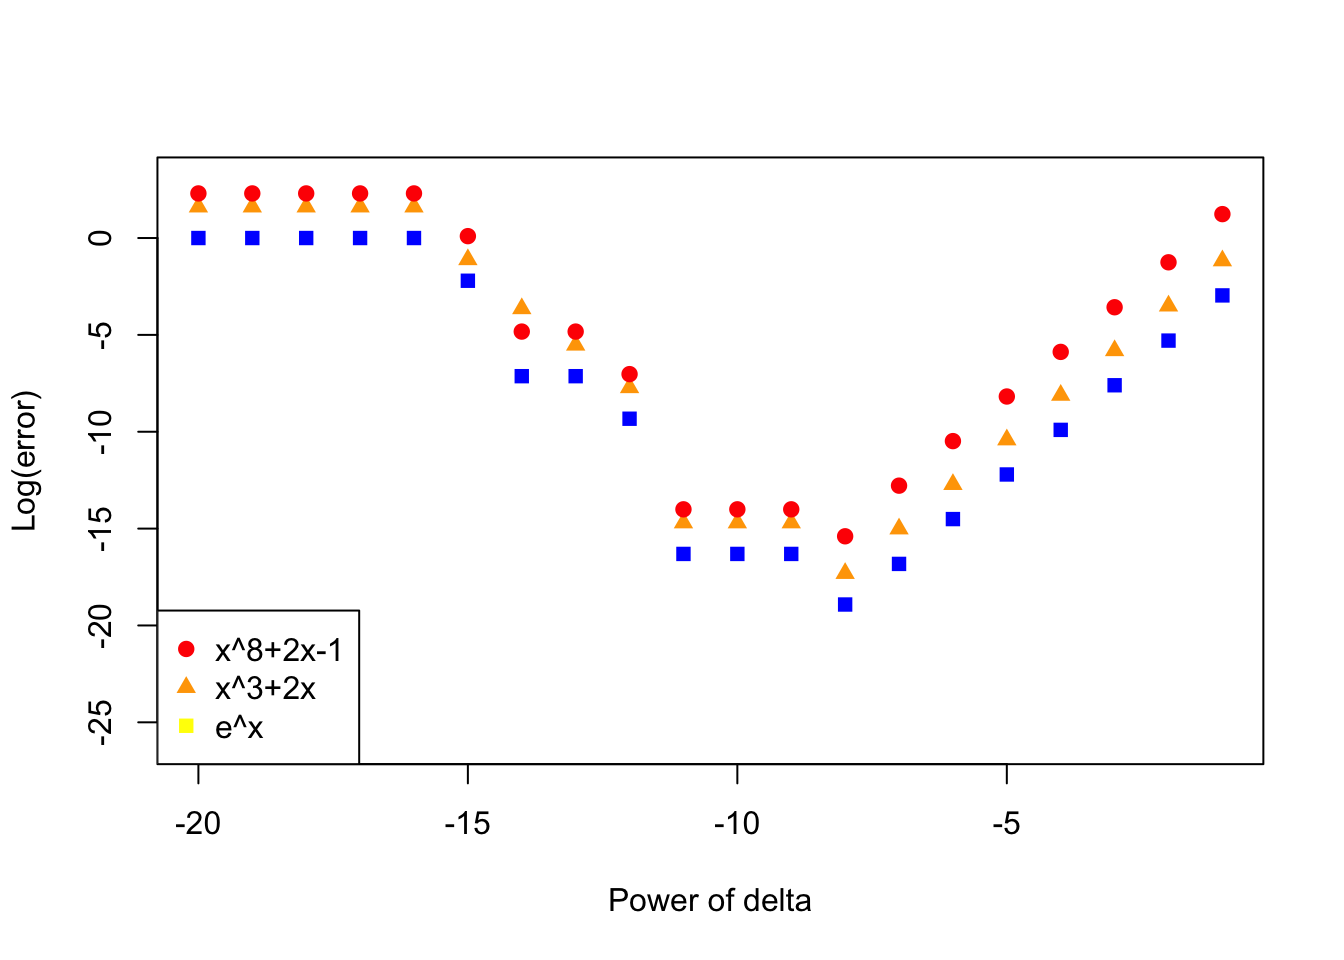
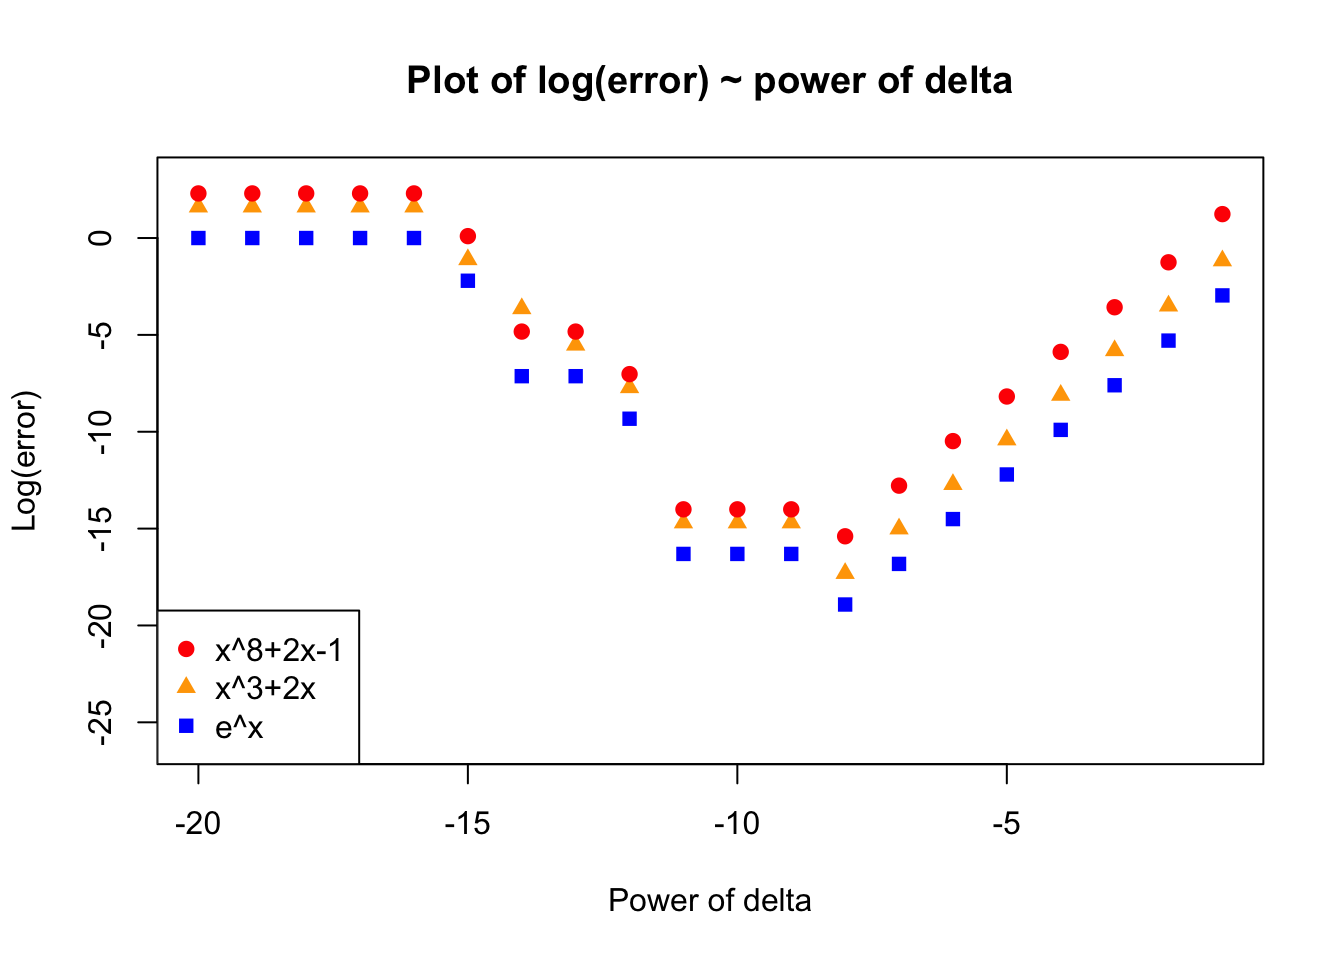
update

Changed region(s): [[0.2812, 0.0625, 0.75, 0.125], [0.125, 0.75, 0.1562, 0.7812]]

diff --git a/TR1/TR1 COMP365/Main.tex b/TR1/TR1 COMP365/Main.tex
@@ -133,7 +133,7 @@ Theoretically, the finite difference equation is most accurate when $\delta$ app
 
 \subsection{Implementation}
 
-The procedure we take to examine which $\delta$ is the most appropriate consists of: 1. picking a function 2. applying our derivative method to this function with varying $\delta$ values. We then computed the error of each $\delta$ and find out which one yields the least error. We perform this procedure on three functions: $f(x) = e^x$, $g(x) = x^3 + 2x$ and $h(x) = x^8 + 2x - 1$.
+The procedure we take to examine which $\delta$ is the most appropriate consists of: 1. picking a function 2. applying our derivative method to this function with varying $\delta$ values. We then computed the error of each $\delta$ and find out which one yields the least error. We perform this procedure on three functions: $f(x) = e^x$, $g(x) = x^3 + 2x$ and $h(x) = x^8 + 2x - 1$. Our results can be seen in figure 4.
 
 \vspace{1mm}
 
@@ -165,11 +165,11 @@ $$
 \end{minipage}
 $$
 \vspace{1mm}
-\caption{}
+\caption{log error of $\delta$ values for three functions. (a) Behavior of error as the power of $\delta$ decreases. (b) Zoomed-in plot of (a) }
 \end{figure} \label{Fig:failure1}
 
 \vspace{3mm}
-
+    
 \noindent Interesting to notice, $\delta$ is in the neighborhood of $10^{-8}$ for all 12 polynomial functions we tried. However, $\delta$ behaves differently for trigonometric functions such as $\sin(x)$. See Figure 5.
 
 \begin{figure}[H]
@@ -257,10 +257,11 @@ $$
 \begin{minipage}{2.75in}
 \begin{center}
 \includegraphics[width=\textwidth]{FiniteDifferenceMethods.png} \\
-~~~~~(d) Visual Representation of three finite difference methods
+~~~~~(d) Visualization representation of three finite difference methods
 \end{center}
 \end{minipage}
-\caption{} 
+\vspace{3mm}
+\caption{Pairwise difference in log(error)} 
 $$
 \end{figure} \label{Fig:failure1}
 
@@ -269,6 +270,6 @@ $$
 \section*{Conclusion}
 Theoretically, we should have more precise results from the different methods of differentiation by decreasing $\delta$. However, the opposite is true due to rounding errors. As rounding errors are inevitable in numerical differentiation, there is a threshold for how small $\delta$ can get depending on the input functions we choose. In this report, we have shown that the smallest $\delta$ value for the least errors for $e^x$, $x^3 + 2x$ and sin(x) are, respectively, $8.80230 \times 10^{-8}$, $1.18080 \times 10^{-8}$ and $1.04631 \times 10^{-5}$.  \\
 
-\noindent Furthermore, the graphs of log(errors) for these 3 functions affirm our prediction that as $\delta$ exceeds the threshold respectively, error starts to increase. By plotting the difference errors resulted from these two methods to $\delta$ value, we also found that the three-point centered-difference method provides more precise result compared to the two-point forward-difference method. This can be explained by that $\delta$ can be approximately as small as the cubic root of $\epsilon_{\text{machine}}$ for the first method, while it can only be as small as the square root for $\epsilon_{\text{machine}}$ for the latter. Due to this reason, for future work we can explore how threshold for $\delta$ of three-point centered-difference method to find the characteristics of a function that determine its optimal $\delta$ value.
+\noindent Furthermore, the graphs of log(errors) for these 3 functions affirm our prediction that as $\delta$ exceeds the threshold respectively, error starts to increase. By plotting the difference errors resulted from these two methods to $\delta$ value, we also found that the three-point centered-difference method provides more precise result compared with the two-point forward-difference method. This can be explained by that $\delta$ can be approximately as small as the cubic root of $\epsilon_{\text{machine}}$ for the first method, while it can only be as small as the square root for $\epsilon_{\text{machine}}$ for the latter. Due to this reason, for future work we can explore how threshold for $\delta$ of three-point centered-difference method to find the characteristics of a function that determine its optimal $\delta$ value.
 
 \end{document}

diff --git a/TR1/README.md b/TR1/README.md
@@ -1,0 +1,4 @@
+# Technical Report 1: Finite Difference Derivatives
+
+
+### [PDF Versoin]()
